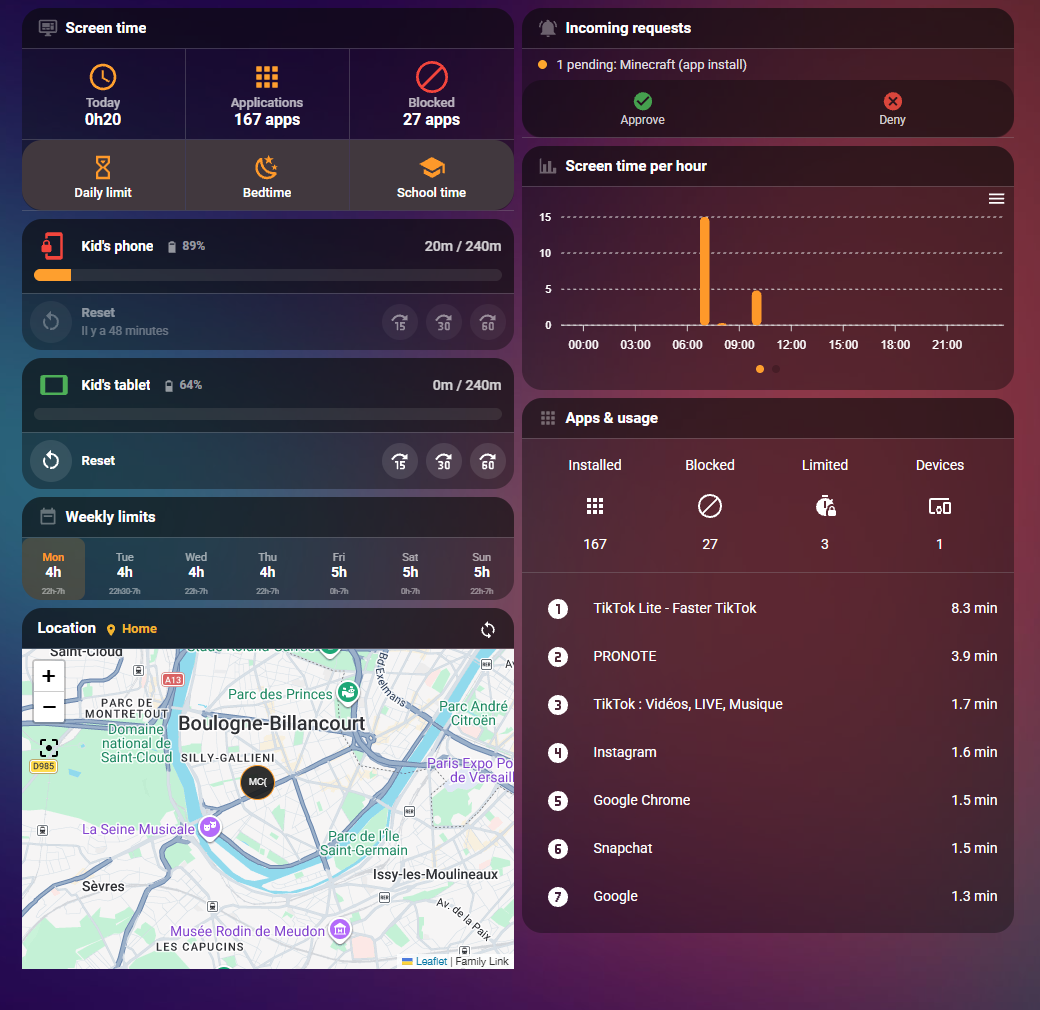
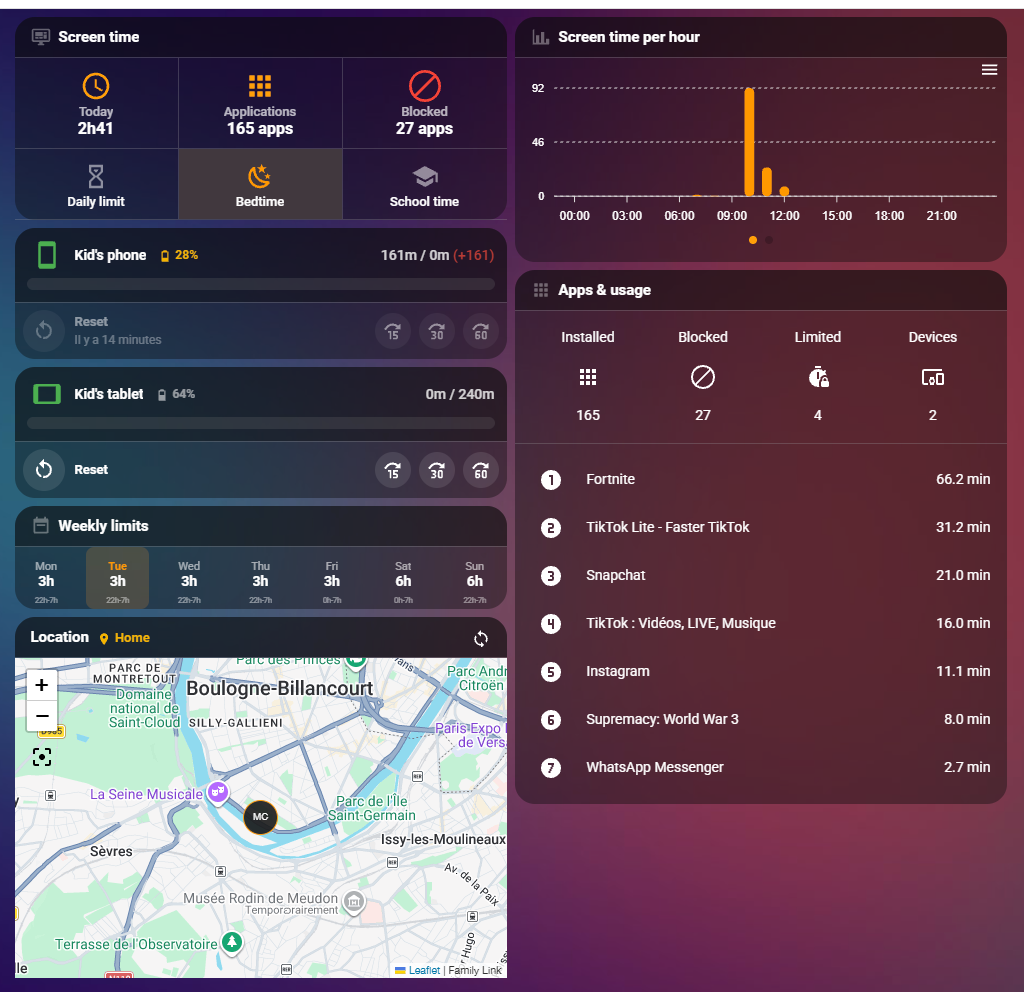
Example dashboard: drop the requests card, which Family Link cannot feed
The "Incoming requests" card came along when the dashboard was exported
from a setup that also runs Microsoft Family Safety. Its sensor and its
Approve / Deny buttons belong to that integration, Family Link exposes
no request. Card removed from the YAML, the README note and the
screenshot.

diff --git a/examples/README.md b/examples/README.md
@@ -24,16 +24,15 @@ The YAML was exported from a real setup (Family Link 2.0). Find your own entity 
 | `switch.sm_s916b`, `sensor.sm_s916b_*` (screen_time_remaining, daily_limit, active_bonus, battery_level), `button.sm_s916b_*` (15min, 30min, 60min, reset_bonus) | your phone's entities |
 | `device_tracker.firstname_name_family_link_firstname_name` | your child's device tracker (requires GPS tracking enabled in the integration options) |
 
-## Cards that need extra work
+## Card that needs extra work
 
-Two cards reference entities the integration does **not** create:
+One card references an entity the integration does **not** create:
 
 | Entity | Used for |
 |--------|----------|
 | `sensor.firstname_ecran_par_heure` | hourly screen time chart, a template sensor that stores the minutes used in the current hour (a `derivative` or `utility_meter` helper on `sensor.firstname_name_daily_screen_time` with an hourly cycle works) |
-| `sensor.firstname_pending_requests`, `button.firstname_approve_request`, `button.firstname_deny_request` | the "Incoming requests" card (app and time requests); Family Link does not expose them, the author's come from another parental-control integration |
 
-Build equivalents or delete those cards.
+Build an equivalent or delete that card.
 
 ## Weekly limits card (2.0)
 
